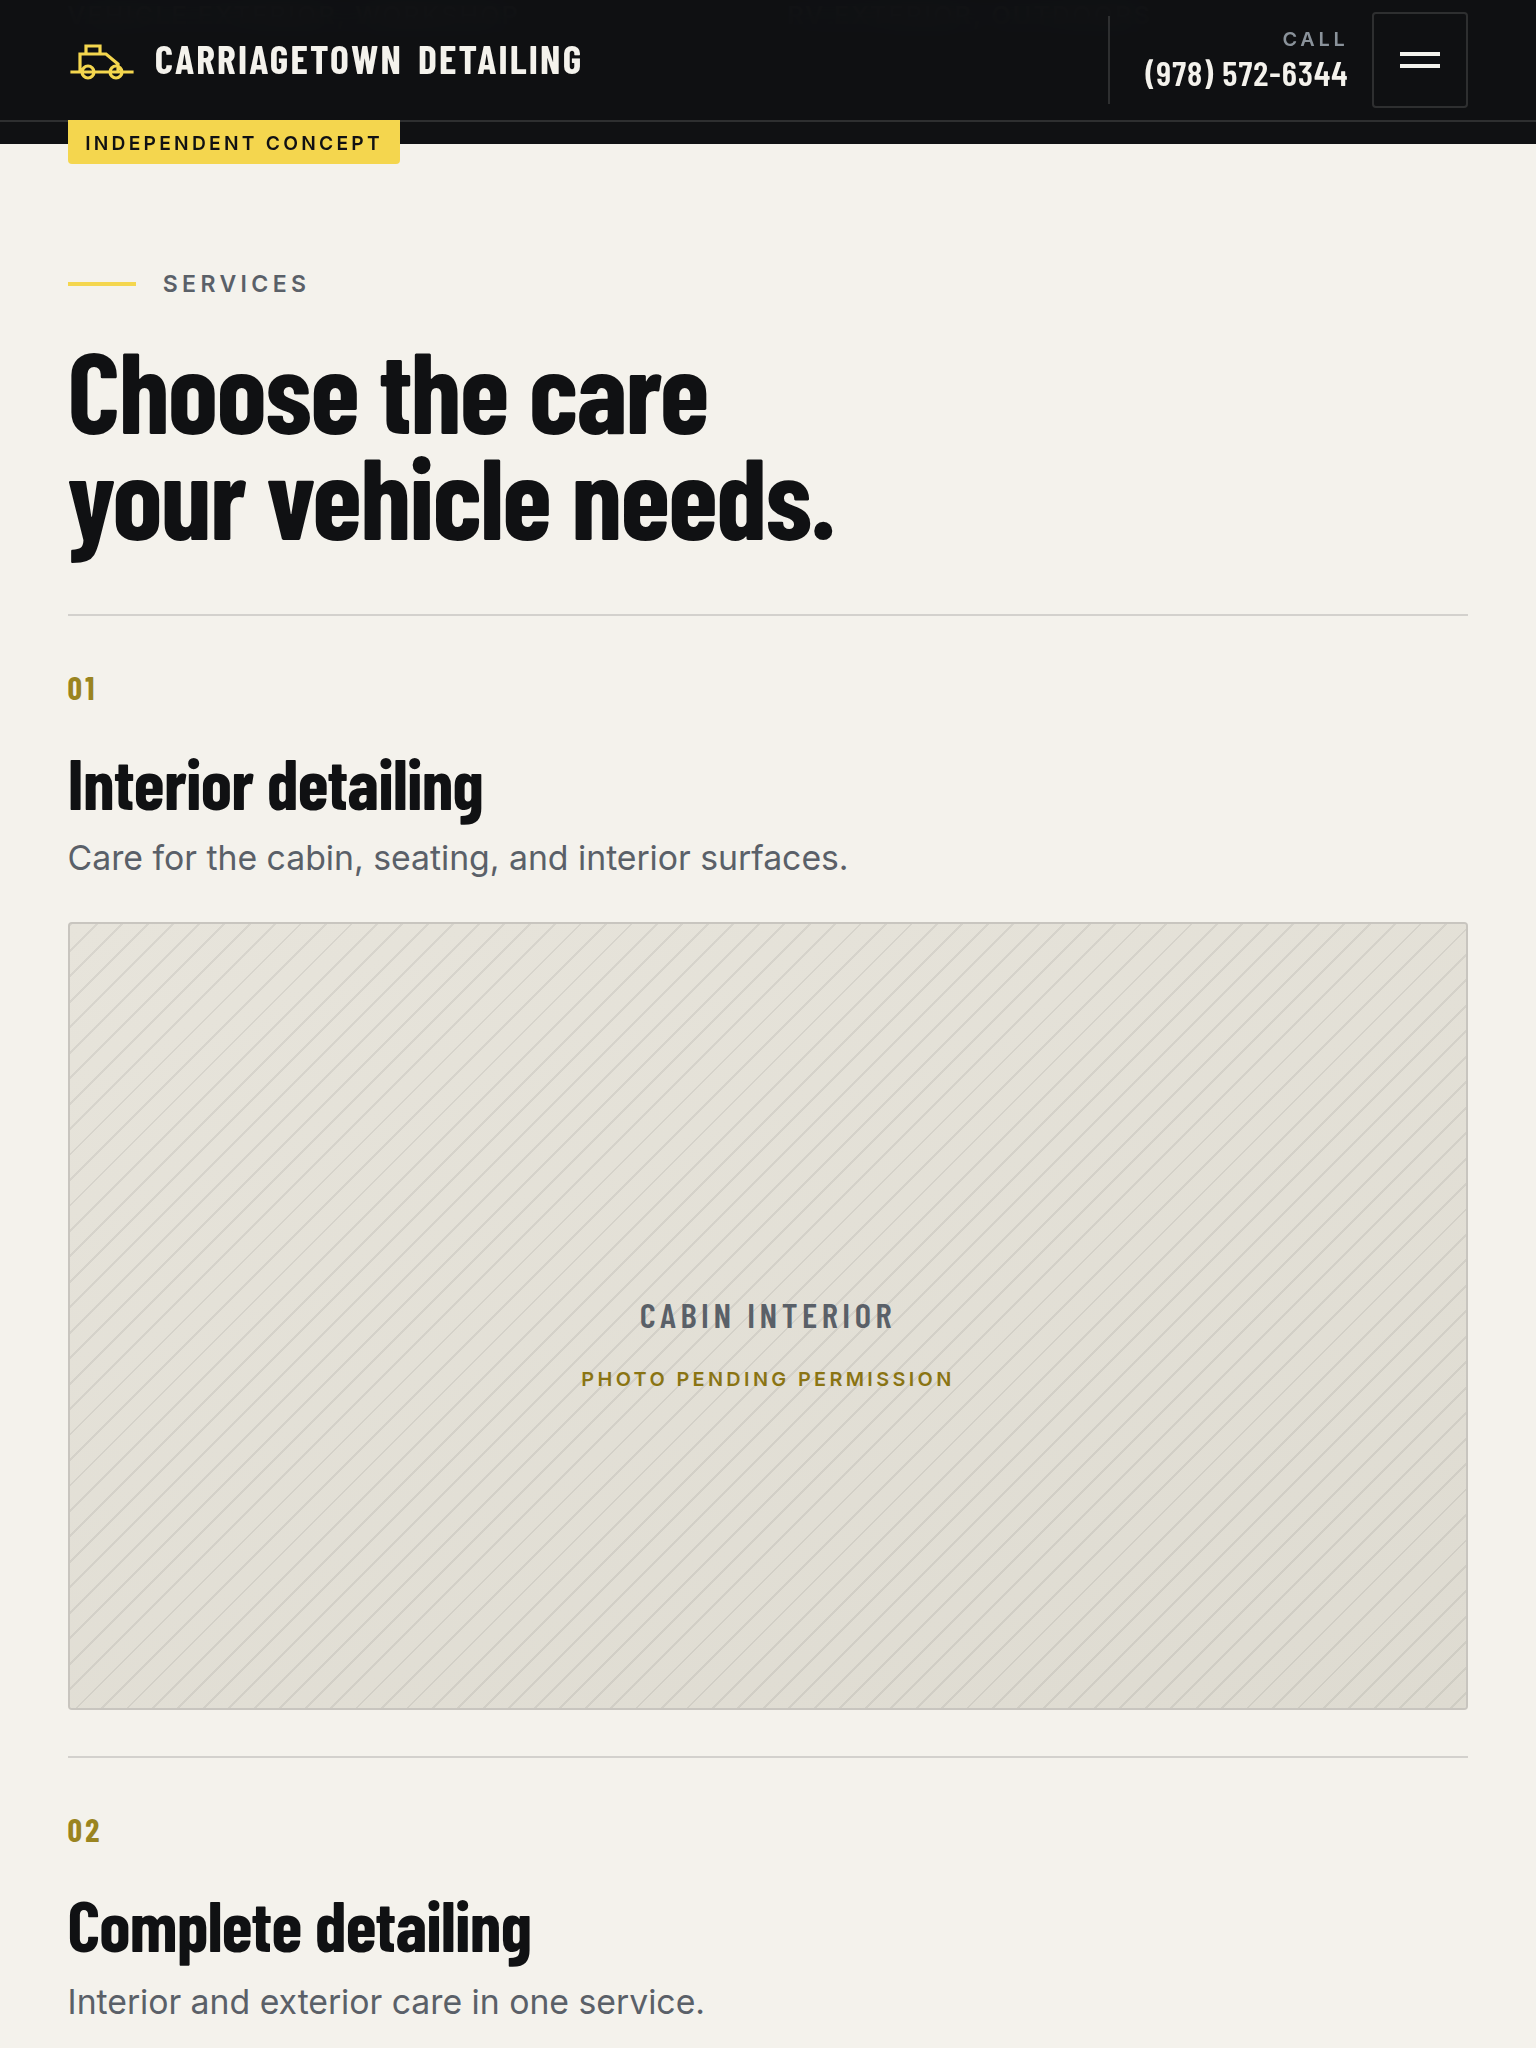
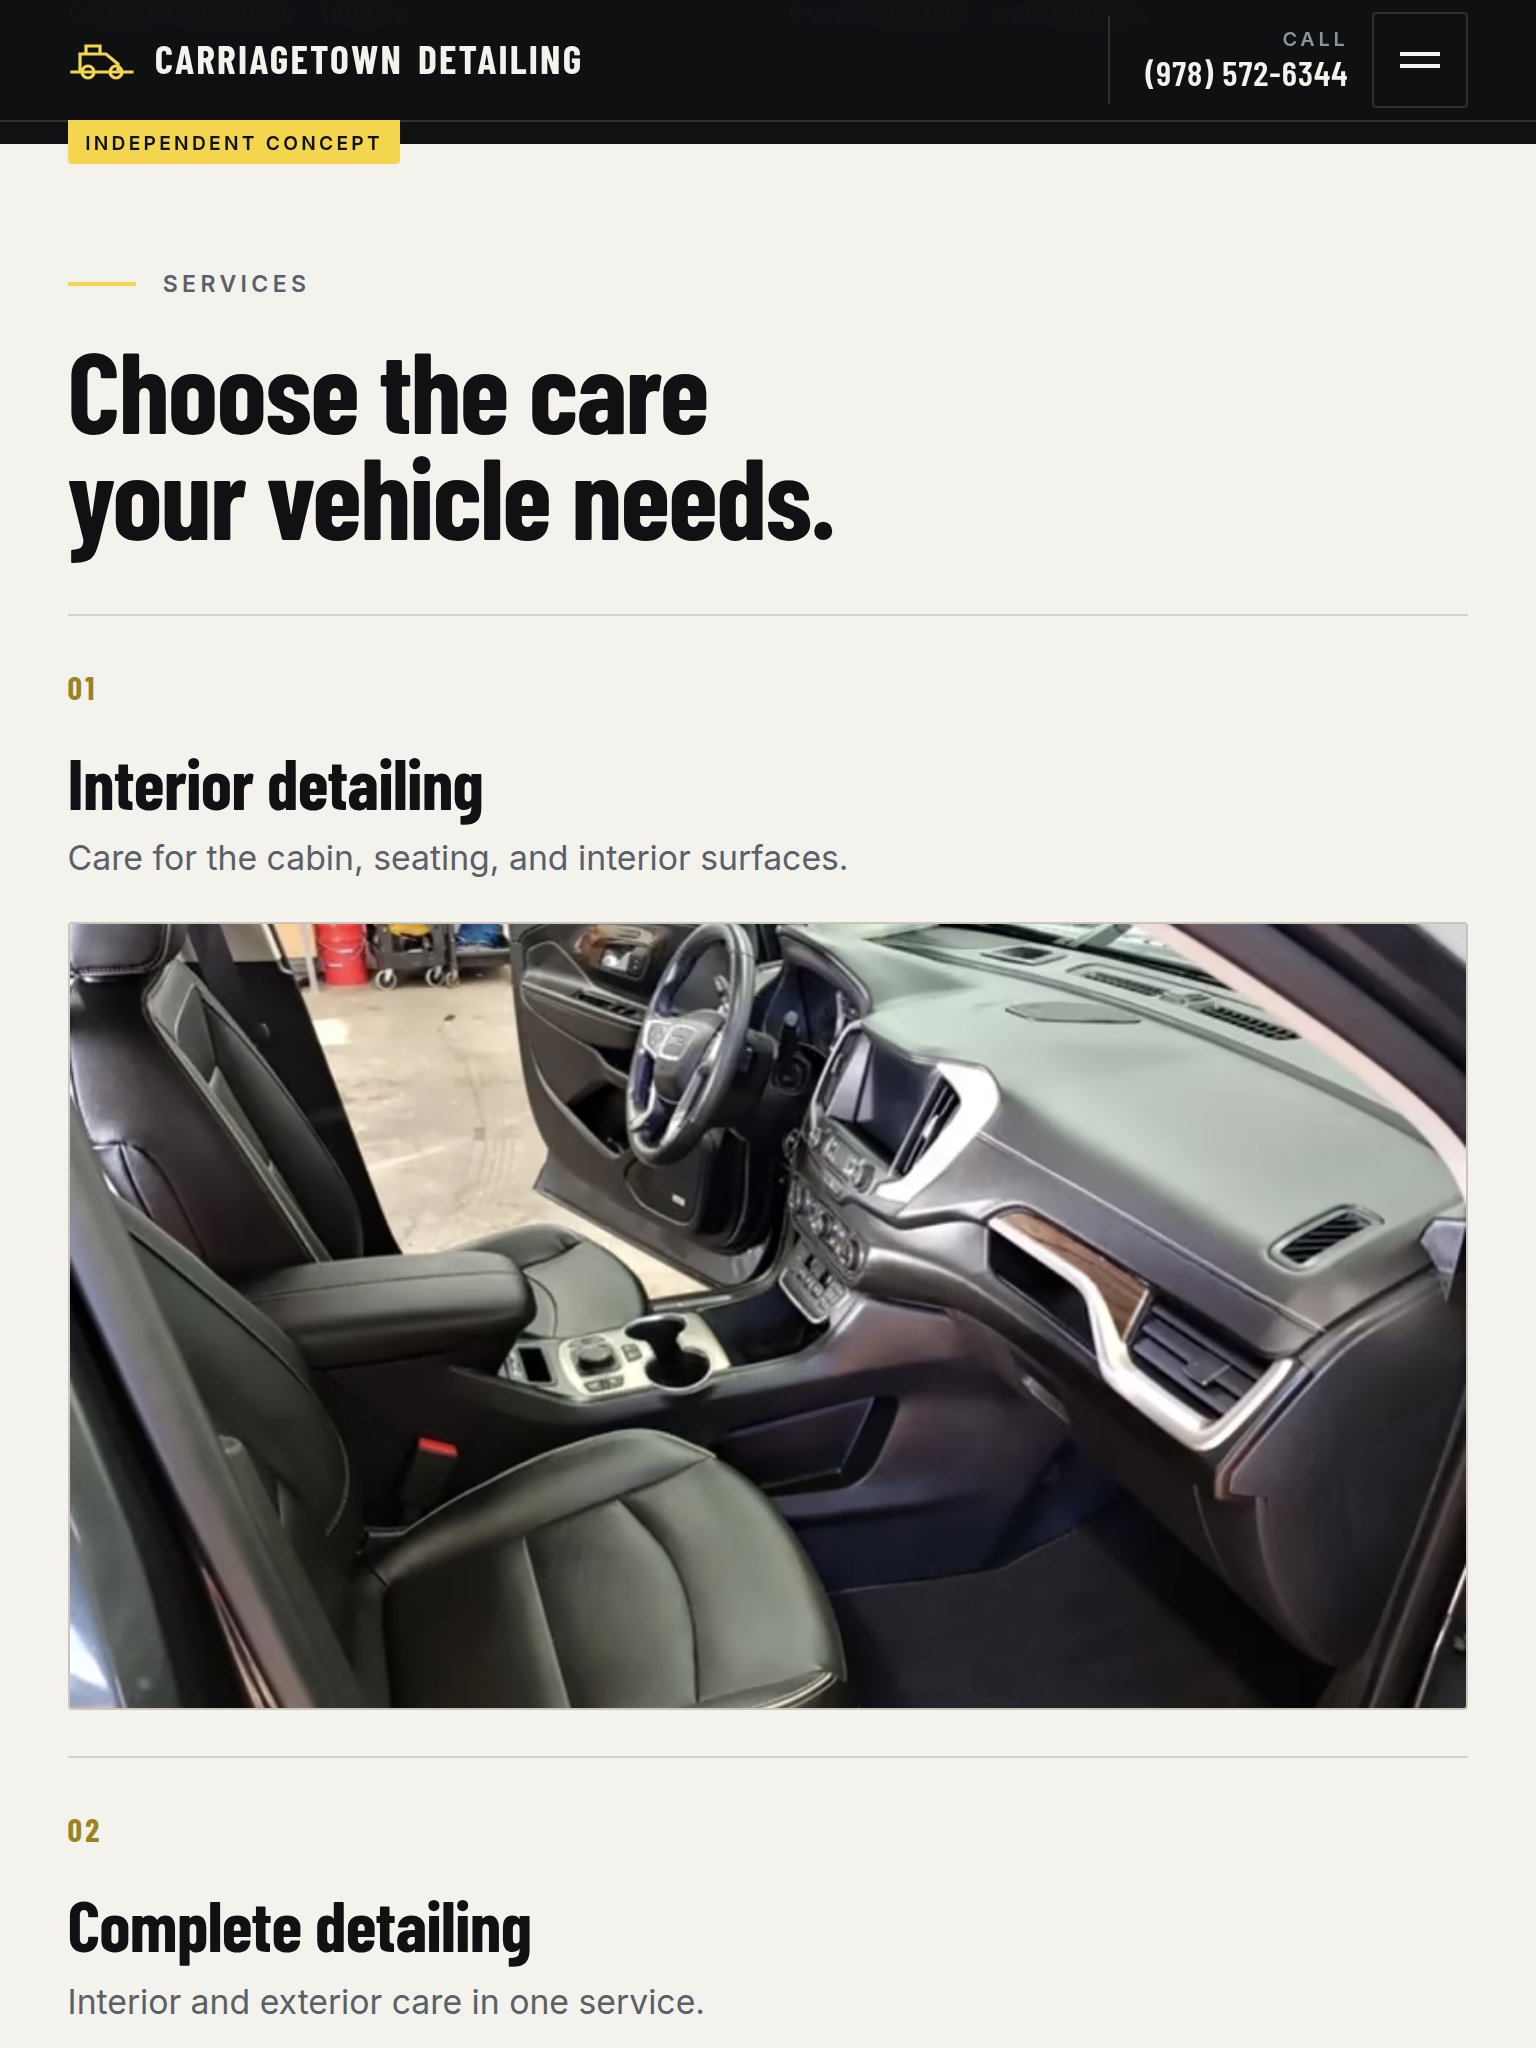
Add four business photos recovered from owner-supplied screenshots
The image host is still blocked, but four photographs were recoverable from
iPhone screenshots of the live site: the GMC interior, the RV exterior, the
Tesla cabin, and a Ford truck interior that was not in the original asset
list. Cropped, edge-trimmed and run through the normal pipeline.

They are re-compressed and 836px wide at best against 2016-2048px originals,
so optimize-assets now clamps the responsive ladder to the real source width
and never upscales. The manifest records their provenance explicitly and
marks them fit for review but not for launch.

Placed in the work sequence (cabin), the work grid (RV, truck) and services
row 01 (interior). The hero, the black SUV exterior, the cargo area and the
rear seating are still missing and keep their pending panels — the hero is
the image the page is composed around, so the concept is still not
presentable to the owner.

Prices remain off the page. The list supplied is the homepage list and still
disagrees with /services, so the conflict is unresolved.

QA re-run: P0 0, P1 0 across 1440/768/390/360, reduced-motion and no-JS.

Claude-Session: https://claude.ai/code/session_01RpNYQj1Uc5bsCiFS8wgXHH

diff --git a/public/index.html b/public/index.html
@@ -144,9 +144,9 @@
             <figure class="shot shot--stage" data-shot>
               <div class="shot__frame ratio ratio--3x4">
                 <picture>
-                  <source type="image/avif" srcset="assets/photos/tesla-interior-480.avif 480w, assets/photos/tesla-interior-800.avif 800w, assets/photos/tesla-interior-1200.avif 1200w" sizes="(min-width: 960px) 34vw, 100vw">
-                  <source type="image/webp" srcset="assets/photos/tesla-interior-480.webp 480w, assets/photos/tesla-interior-800.webp 800w, assets/photos/tesla-interior-1200.webp 1200w" sizes="(min-width: 960px) 34vw, 100vw">
-                  <img src="assets/photos/tesla-interior-800.webp" width="1536" height="2048" loading="lazy" decoding="async"
+                  <source type="image/avif" srcset="assets/photos/tesla-interior-461.avif 461w" sizes="(min-width: 960px) 34vw, 100vw">
+                  <source type="image/webp" srcset="assets/photos/tesla-interior-461.webp 461w" sizes="(min-width: 960px) 34vw, 100vw">
+                  <img src="assets/photos/tesla-interior-461.webp" width="461" height="629" loading="lazy" decoding="async"
                        alt="The interior of a Tesla with white front seats and a dark dashboard, driver's door open.">
                 </picture>
                 <span class="shot__pending" aria-hidden="true" data-pending-label="Cabin interior"></span>
@@ -178,23 +178,23 @@
         <figure class="shot" data-shot>
           <div class="shot__frame ratio ratio--4x3">
             <picture>
-              <source type="image/avif" srcset="assets/photos/black-suv-480.avif 480w, assets/photos/black-suv-800.avif 800w, assets/photos/black-suv-1400.avif 1400w" sizes="(min-width: 760px) 44vw, 100vw">
-              <source type="image/webp" srcset="assets/photos/black-suv-480.webp 480w, assets/photos/black-suv-800.webp 800w, assets/photos/black-suv-1400.webp 1400w" sizes="(min-width: 760px) 44vw, 100vw">
-              <img src="assets/photos/black-suv-800.webp" width="2016" height="1512" loading="lazy" decoding="async"
-                   alt="A black SUV photographed from the rear three-quarter angle inside the workshop.">
+              <source type="image/avif" srcset="assets/photos/ford-interior-480.avif 480w, assets/photos/ford-interior-800.avif 800w" sizes="(min-width: 760px) 44vw, 100vw">
+              <source type="image/webp" srcset="assets/photos/ford-interior-480.webp 480w, assets/photos/ford-interior-800.webp 800w" sizes="(min-width: 760px) 44vw, 100vw">
+              <img src="assets/photos/ford-interior-800.webp" width="874" height="612" loading="lazy" decoding="async"
+                   alt="The interior of a Ford truck with dark leather seats and a grey dashboard.">
             </picture>
-            <span class="shot__pending" aria-hidden="true" data-pending-label="SUV exterior"></span>
+            <span class="shot__pending" aria-hidden="true" data-pending-label="Truck interior"></span>
           </div>
-          <figcaption class="shot__cap">Vehicle exterior, workshop</figcaption>
+          <figcaption class="shot__cap">Cabin interior, truck</figcaption>
         </figure>
       </li>
       <li>
         <figure class="shot" data-shot>
           <div class="shot__frame ratio ratio--4x3">
             <picture>
-              <source type="image/avif" srcset="assets/photos/rv-exterior-480.avif 480w, assets/photos/rv-exterior-800.avif 800w, assets/photos/rv-exterior-1400.avif 1400w" sizes="(min-width: 760px) 44vw, 100vw">
-              <source type="image/webp" srcset="assets/photos/rv-exterior-480.webp 480w, assets/photos/rv-exterior-800.webp 800w, assets/photos/rv-exterior-1400.webp 1400w" sizes="(min-width: 760px) 44vw, 100vw">
-              <img src="assets/photos/rv-exterior-800.webp" width="2016" height="1512" loading="lazy" decoding="async"
+              <source type="image/avif" srcset="assets/photos/rv-exterior-480.avif 480w, assets/photos/rv-exterior-800.avif 800w" sizes="(min-width: 760px) 44vw, 100vw">
+              <source type="image/webp" srcset="assets/photos/rv-exterior-480.webp 480w, assets/photos/rv-exterior-800.webp 800w" sizes="(min-width: 760px) 44vw, 100vw">
+              <img src="assets/photos/rv-exterior-800.webp" width="836" height="628" loading="lazy" decoding="async"
                    alt="A motorhome photographed outdoors.">
             </picture>
             <span class="shot__pending" aria-hidden="true" data-pending-label="RV exterior"></span>
@@ -224,7 +224,7 @@
             <picture>
               <source type="image/avif" srcset="assets/photos/gmc-interior-480.avif 480w, assets/photos/gmc-interior-800.avif 800w" sizes="(min-width: 960px) 30vw, 100vw">
               <source type="image/webp" srcset="assets/photos/gmc-interior-480.webp 480w, assets/photos/gmc-interior-800.webp 800w" sizes="(min-width: 960px) 30vw, 100vw">
-              <img src="assets/photos/gmc-interior-480.webp" width="2016" height="1512" loading="lazy" decoding="async"
+              <img src="assets/photos/gmc-interior-480.webp" width="836" height="621" loading="lazy" decoding="async"
                    alt="A vehicle interior with dark seats and dashboard.">
             </picture>
             <span class="shot__pending shot__pending--light" aria-hidden="true" data-pending-label="Cabin interior"></span>

diff --git a/public/assets/css/site.css b/public/assets/css/site.css
@@ -549,7 +549,7 @@ address{font-style:normal;}
     border:1px solid var(--hair);
   }
   .stage.is-pinned .shot--stage .shot__cap{
-    margin:0 0 .35rem;max-width:15ch;text-align:left;flex:none;
+    margin:0 0 .35rem;max-width:19ch;text-align:left;flex:none;
   }
   .stage.is-pinned .shot--stage .shot__cap b{
     display:block;margin:0 0 .3rem;font-size:1.05rem;letter-spacing:.06em;

diff --git a/docs/QA-REPORT.md b/docs/QA-REPORT.md
@@ -64,10 +64,17 @@ Automated assertions, all passing:
 
 ## Not tested, and why
 
-- **The photographs themselves.** `img1.wsimg.com` is blocked by this session's egress
-  policy, so no vehicle image could be downloaded, optimised or visually judged. Crops,
-  art direction and the hero weight budget are therefore **unverified**. Every slot holds
-  the correct aspect ratio and a labelled pending panel instead.
+- **The hero and three other photographs.** `img1.wsimg.com` remains blocked by this
+  session's egress policy. Four photos were recovered from owner-supplied phone
+  screenshots of the live site (see below) and are now in the build; the hero image,
+  the black SUV exterior, the cargo area and the red rear seating are still absent and
+  render pending panels. Because the hero is missing, hero crop and hero weight budget
+  are still **unverified**.
+
+- **Resolution of the recovered four.** They come from 1284x2778 iPhone screenshots, so
+  they are re-compressed and 836px wide at best against 2016-2048px originals. They
+  render acceptably at 1x but are soft on a 2x display. The optimiser refuses to
+  upscale them. They are fit for review, **not for launch**.
 - **Real iOS/Android handsets.** `sms:` and `tel:` are correct in markup and verified in
   Chromium, but dialler/messaging hand-off was not exercised on a physical device.
   Both numbers are shown as plain copyable text as a fallback.

diff --git a/README.md b/README.md
@@ -18,6 +18,17 @@ npm run qa       # render + inspect at 1440/768/390/360, reduced-motion, no-JS
 
 `npm run dev` serves `public/` and sends `X-Robots-Tag: noindex, nofollow, noarchive`.
 
+## Photograph status
+
+Four photos (GMC interior, RV exterior, Tesla interior, Ford truck interior) were
+recovered from owner-supplied phone screenshots of the live site and are in the build.
+They are re-compressed and ≤836px against 2016-2048px originals — fit for review, **not
+for launch**. `scripts/optimize-assets.mjs` clamps the responsive ladder to the real
+source width and never upscales.
+
+Still missing, rendering pending panels: **hero-black-tesla** (the hero the page is
+composed around), **black-suv**, **cargo-area**, **rear-seating**.
+
 ## Photographs are not in this repository
 
 `npm run assets` downloads them from the business's own site at build time. They are
